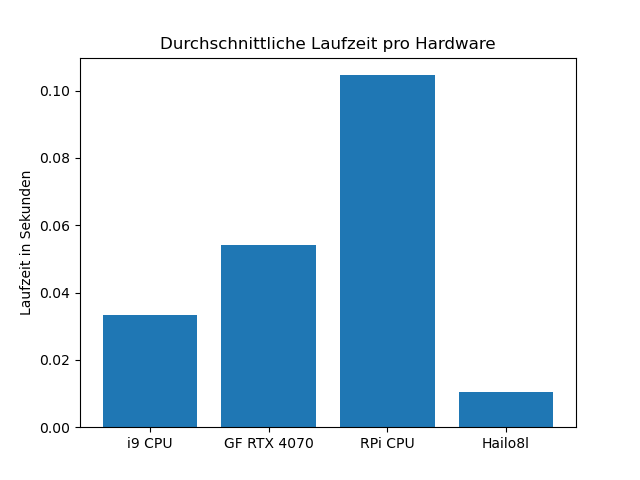
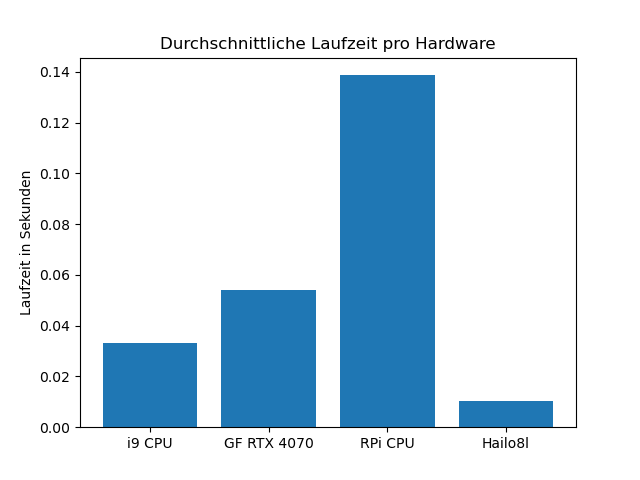
Results

diff --git a/results/graph.py b/results/graph.py
@@ -1,7 +1,7 @@
 from matplotlib import pyplot as plt
 
 device = ["i9 CPU", "GF RTX 4070", "RPi CPU", "Hailo8l"]
-avg = [0.0332, 0.0542, 0.1046, 0.0105]
+avg = [0.0332, 0.0542, 0.1387, 0.0105]
 
 fig, ax = plt.subplots()
 
